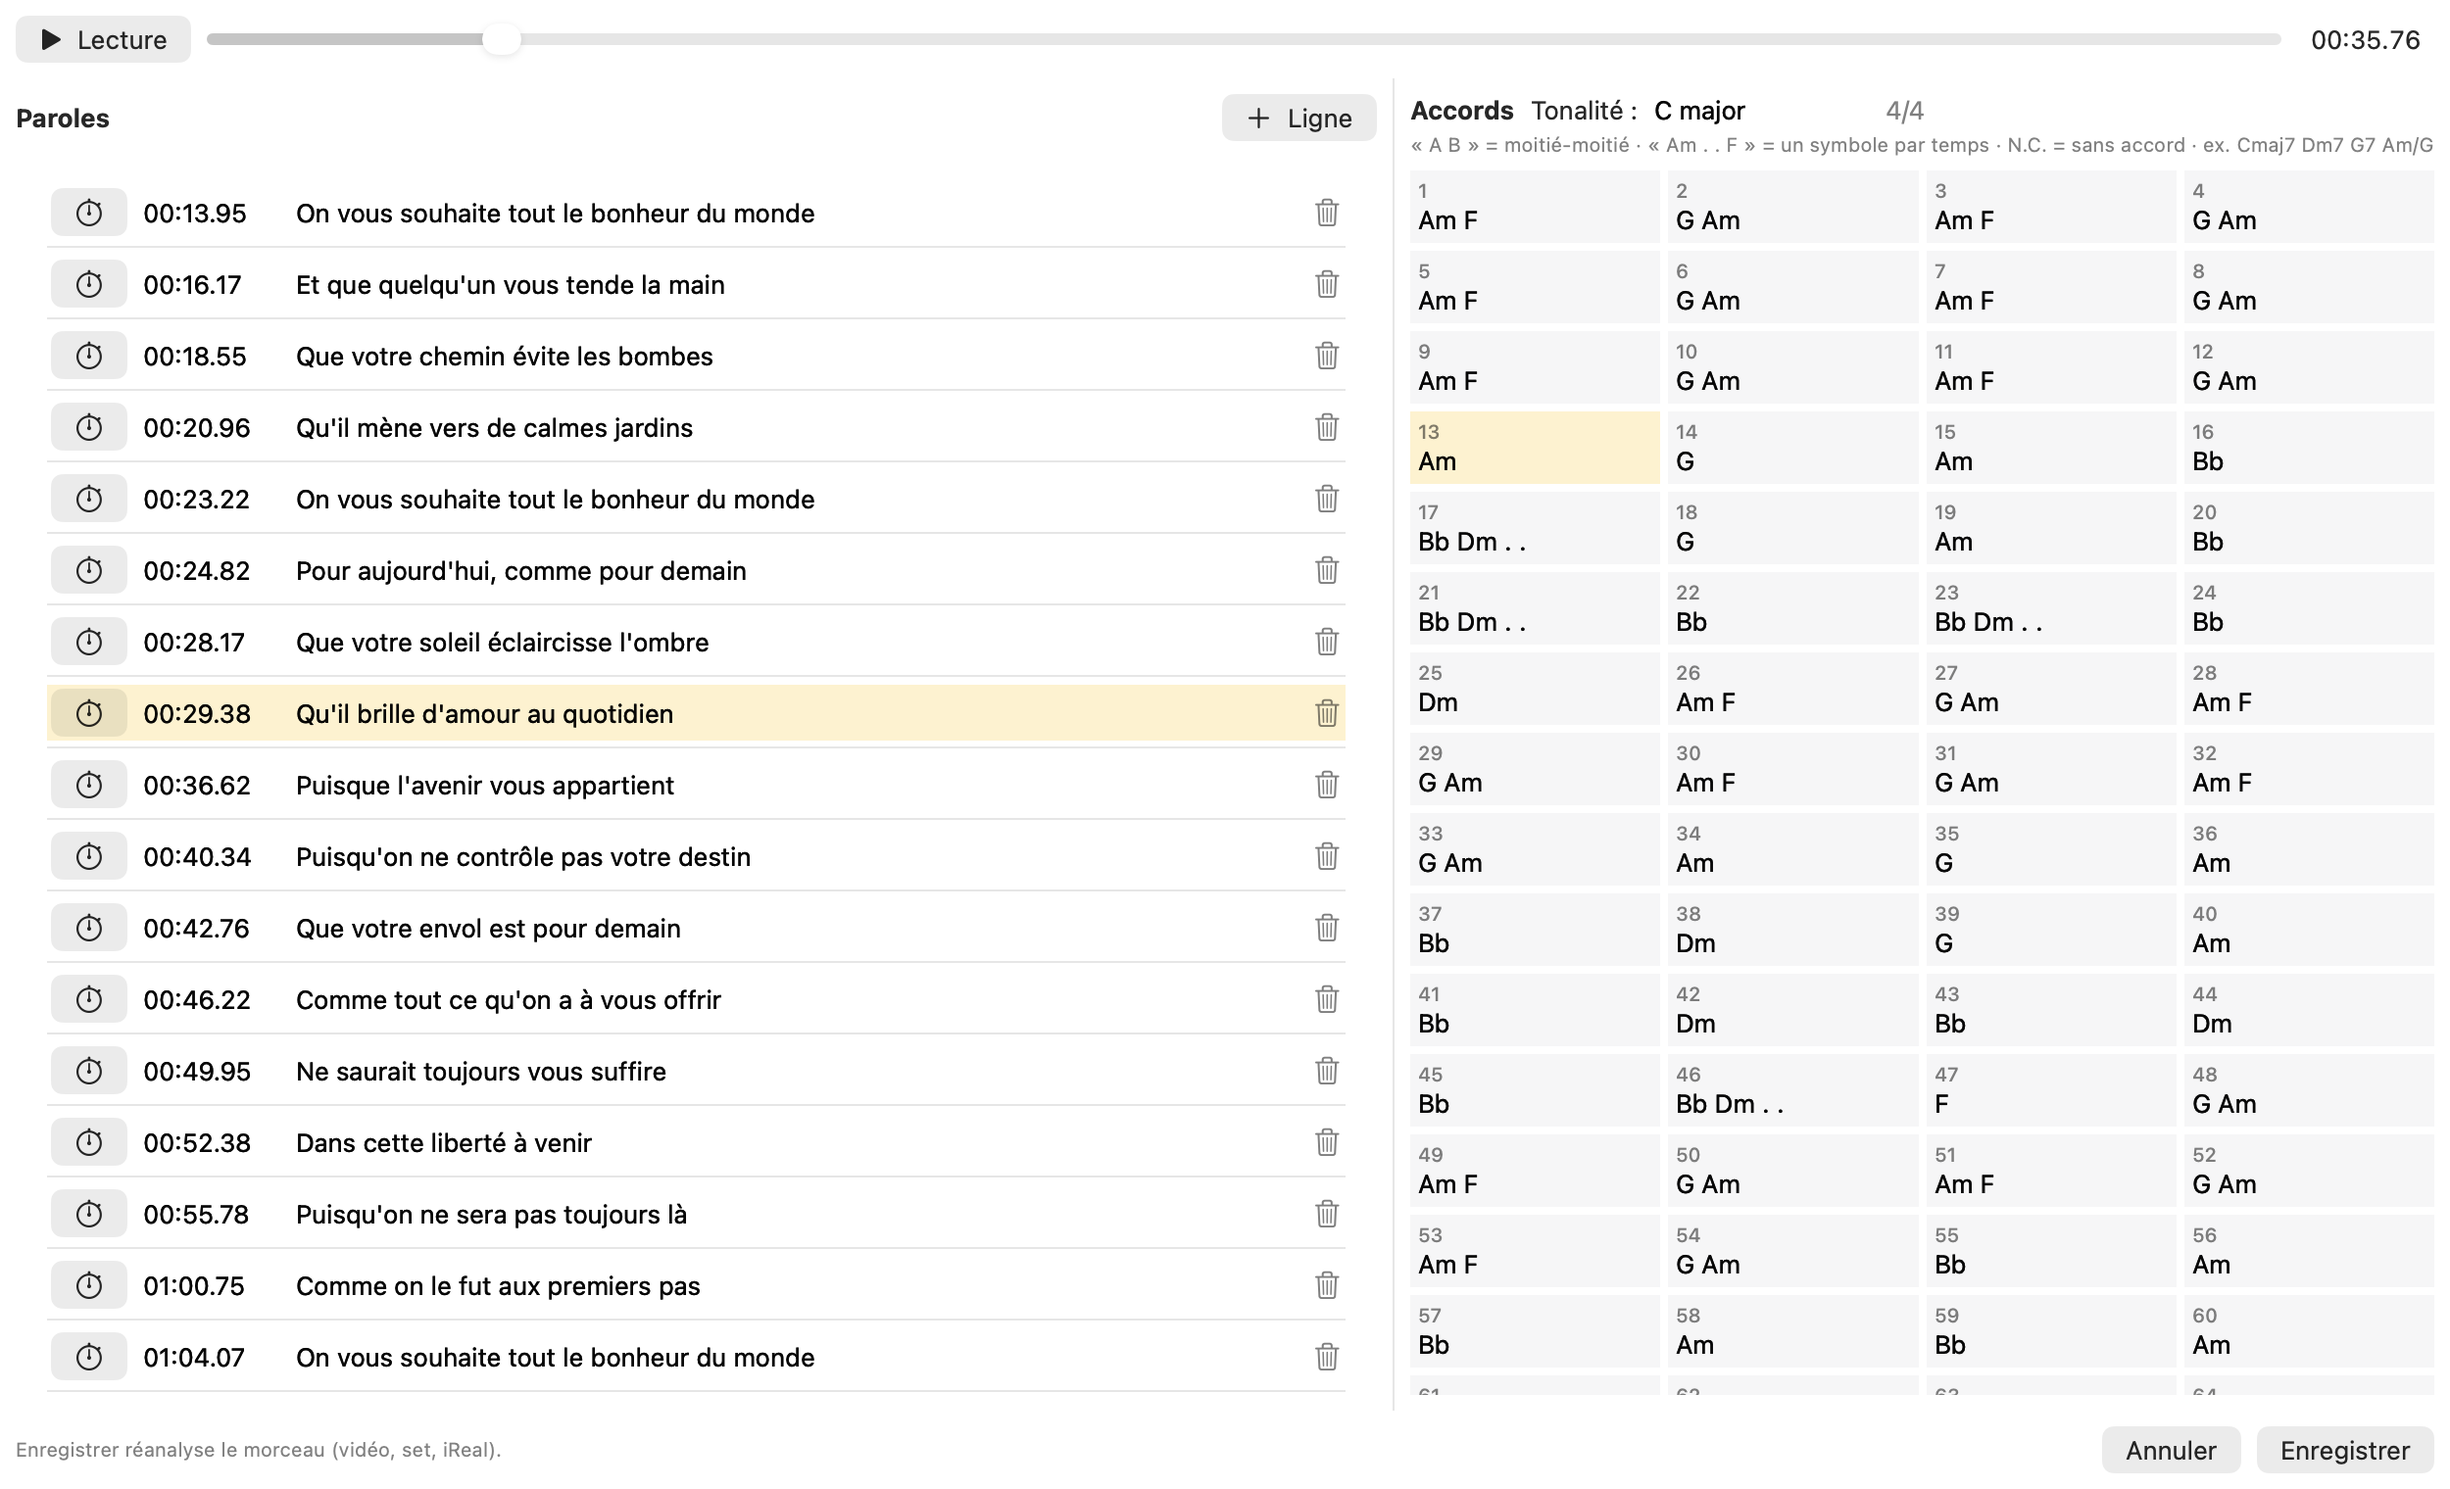
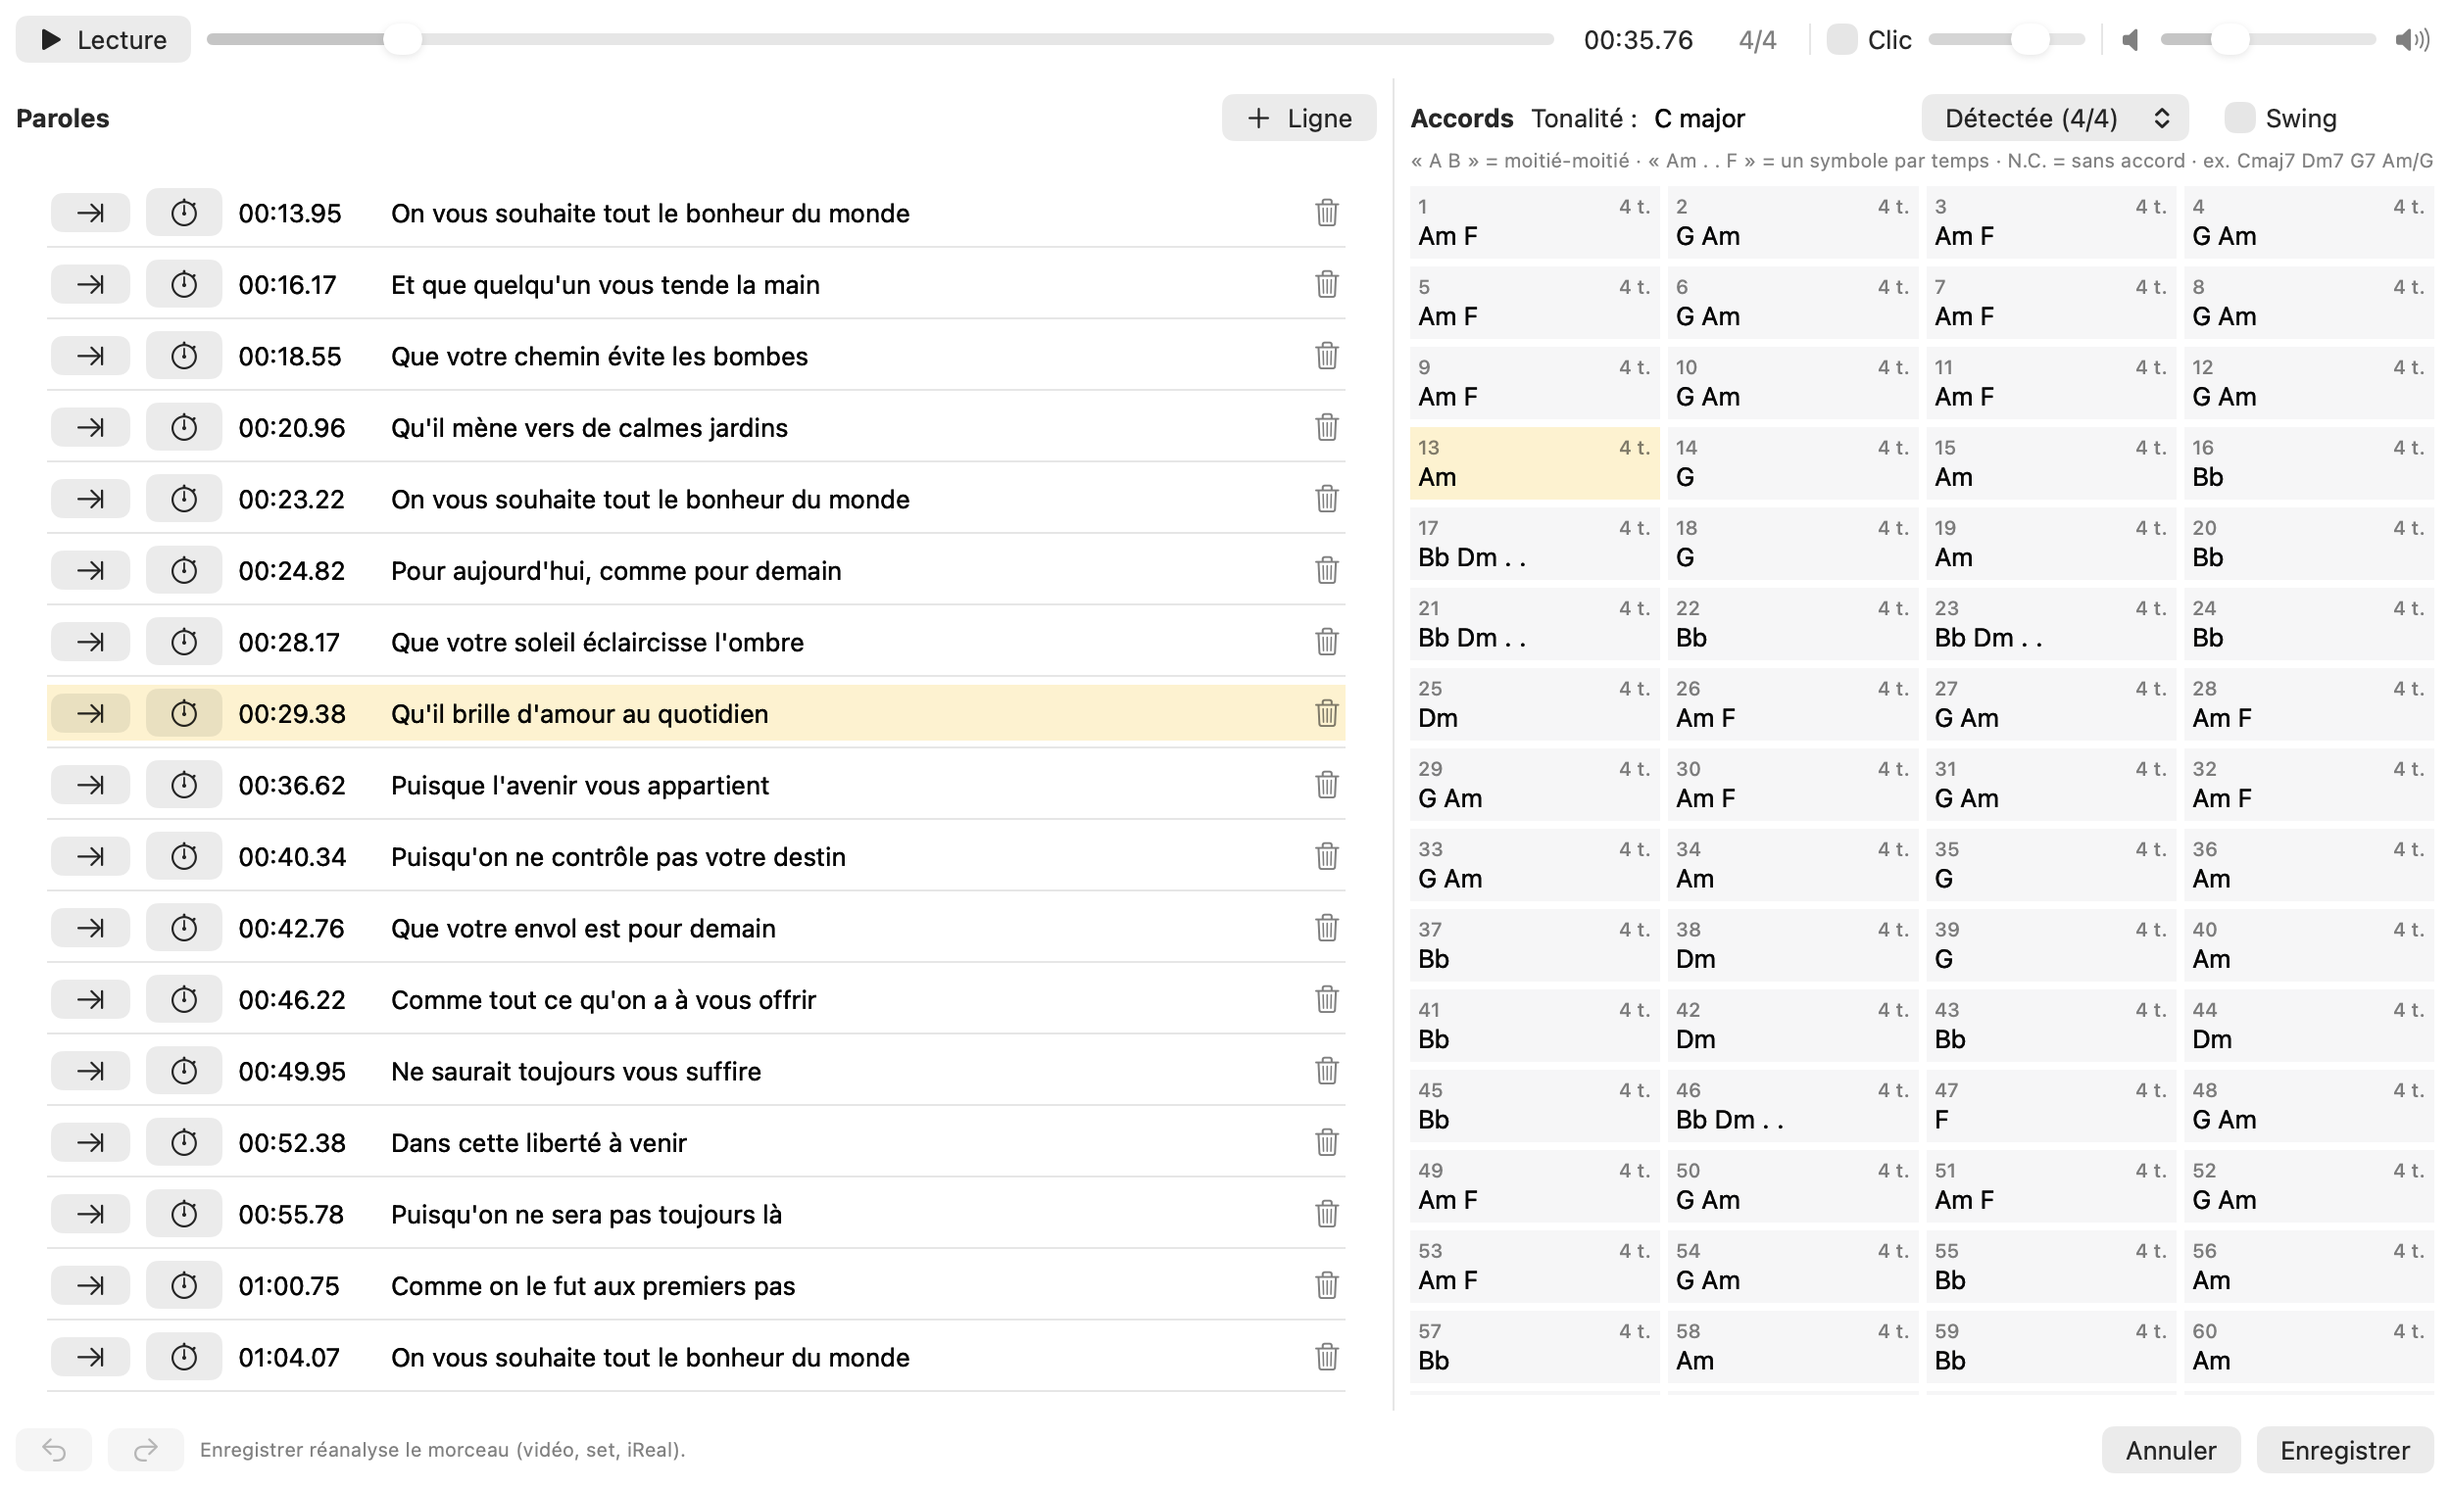
docs: bar-grid corrections, click and time signature in the guide and checklist

diff --git a/docs/guide/GUIDE.md b/docs/guide/GUIDE.md
@@ -162,6 +162,18 @@ Le **rapport** (bouton Rapport) liste tous les morceaux, du plus à risque au mo
 - **Lecture** (Espace quand aucun champ n'est en cours de saisie, ou ⌥ Espace) joue l'enregistrement. La ligne et la mesure en cours sont surlignées en jaune.
 - **Volume :** le curseur à droite de la barre de lecture règle le volume (mémorisé pour tous les morceaux).
 - **Aller à une ligne :** le bouton ⇥ avant le chronomètre place la lecture au début de la ligne.
+- **Clic :** la case « Clic » ajoute un clic sur chaque temps (plus aigu sur le temps 1), avec son propre volume ;
+  le compteur « 1/4 » montre le temps en cours, et chaque case affiche en haut à droite son nombre de temps (« 4 t. », en orange quand il diffère de la mesure). Il suit la grille telle qu'elle est dans la fenêtre.
+- **Temps 1 décalé :** clic droit sur le numéro d'une mesure :
+  - « La mesure commence un temps plus tôt / plus tard » déplace cette barre de mesure et recompte la suite à partir
+    d'elle ;
+  - « Le temps 1 est ici » épingle une barre (📌) pour qu'une correction plus loin ne la déplace pas ; épingler la
+    mesure qui suit une mesure courte la garde ;
+  - les accords suivent leurs temps.
+- **Mesure :** le menu à côté de la tonalité choisit 2/4, 3/4, 4/4, 6/8 ou 12/8 ; « Swing » marque un jeu ternaire
+  (style iReal).
+- Ces corrections sont enregistrées dans `mesures/<id>.json` et reprises à chaque analyse : grille, vidéo, clic du
+  Lecteur et iReal suivent.
 - **Annuler / Rétablir :** ⌘Z et ⇧⌘Z (ou les flèches en bas à gauche) annulent et rétablissent les
   modifications des paroles, des accords et de la tonalité. Pendant la saisie d'un champ, ⌘Z agit sur son texte.
 - **Paroles (à gauche) :** cliquer une ligne y va. Le temps et le texte sont modifiables. ⏱ cale le début de

diff --git a/karaifyer/README.md b/karaifyer/README.md
@@ -13,7 +13,7 @@ Application macOS pour préparer le spectacle karaoké. **Mode d'emploi complet,
   - l'analyse lancée depuis l'app, un morceau à la fois, avec Pause / Arrêter après ce morceau / Arrêter
     maintenant ;
   - une barre de progression, des marqueurs d'avancement et un terminal horodaté ;
-  - un éditeur de paroles et d'accords avec lecture.
+  - un éditeur de paroles et d'accords avec lecture, clic, correction du temps 1 et de la mesure.
 - **Lecteur :**
   - la vidéo et un mixeur 8 pistes plus master (fader, mute, solo) ;
   - une barre de position, une boucle calée sur les mesures, le tempo en BPM et la transposition ;
